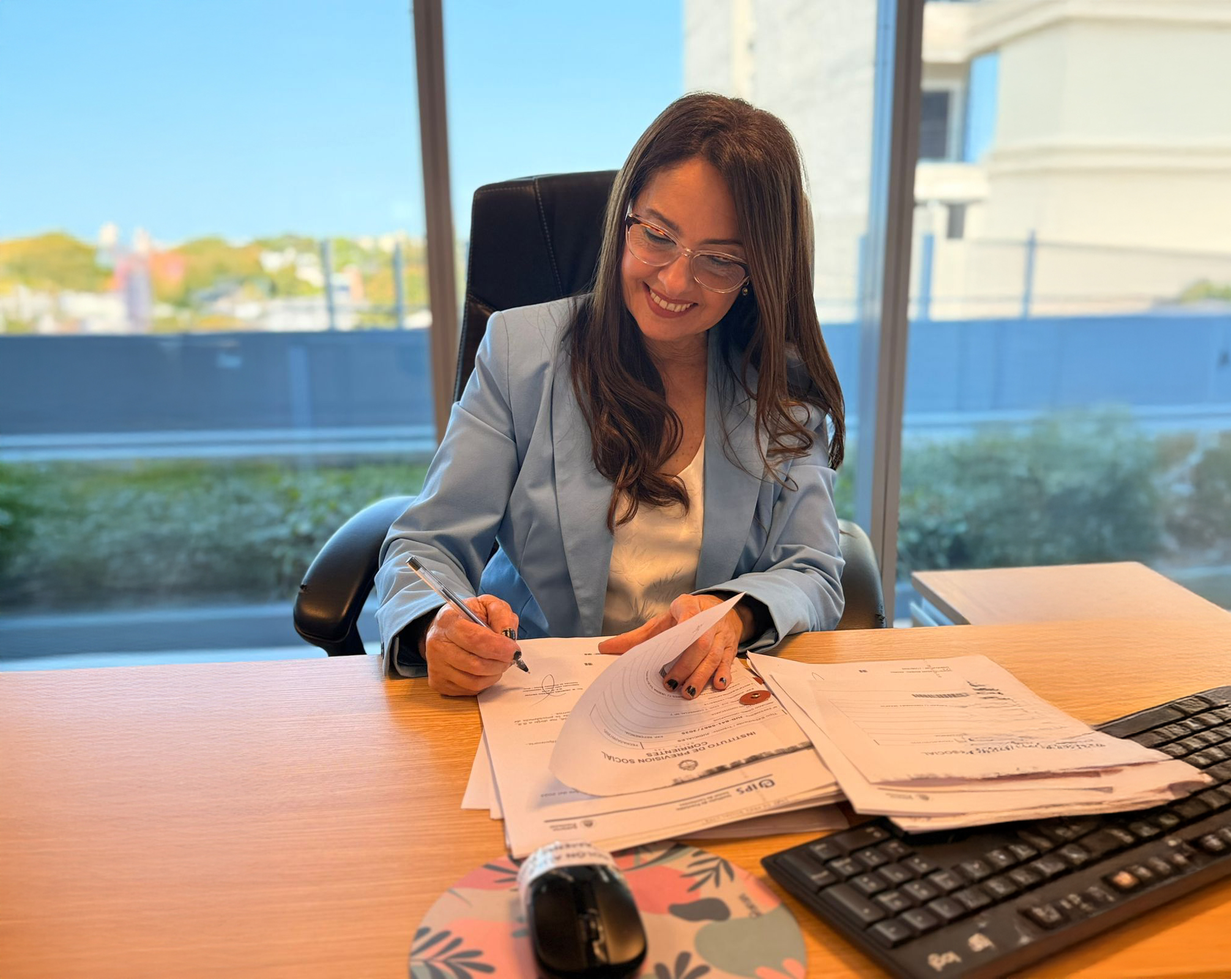
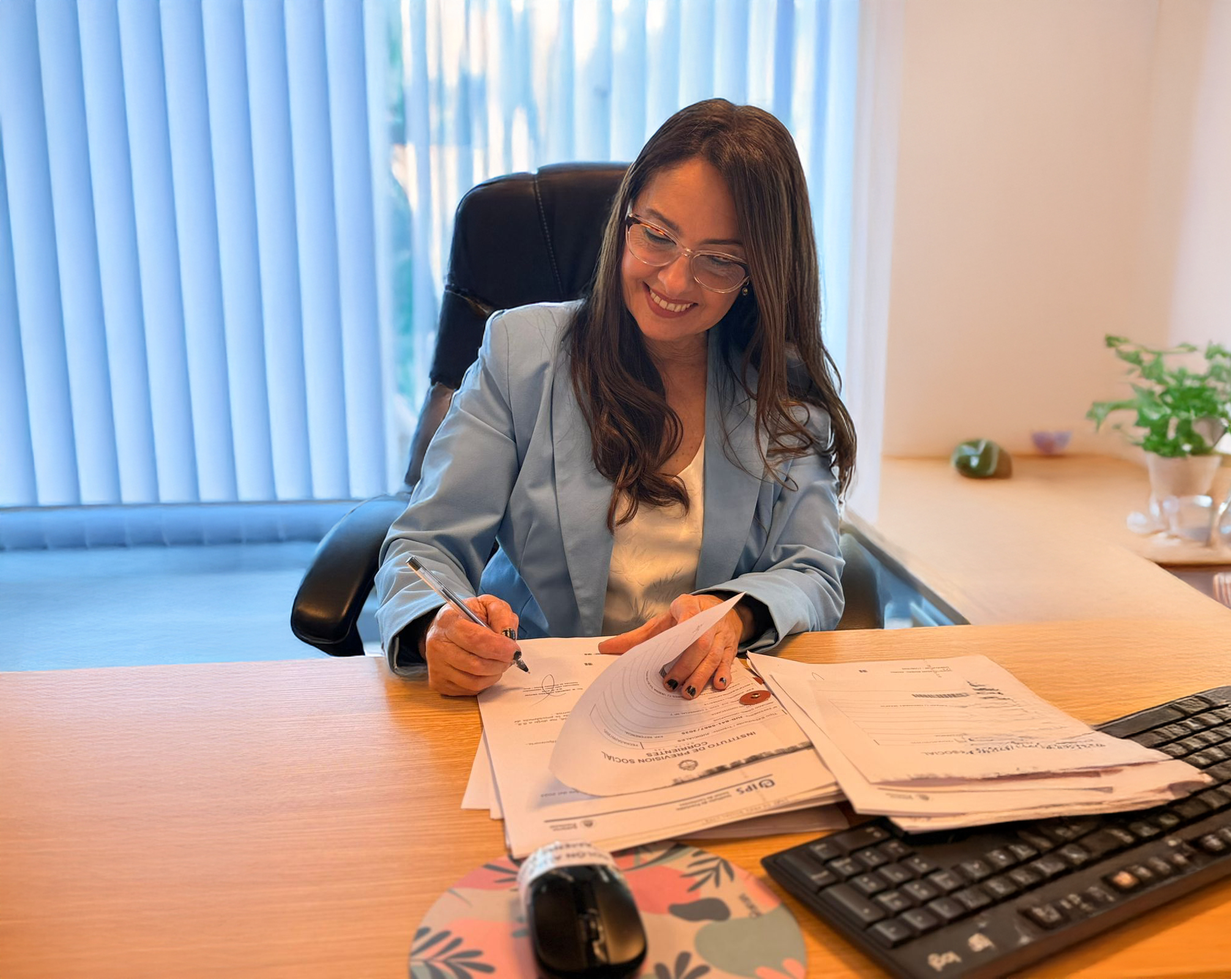
......

diff --git a/src/app/nosotros/page.tsx b/src/app/nosotros/page.tsx
@@ -210,7 +210,7 @@ export default function Nosotros() {
             <div className={styles.teamMember}>
               <div className={styles.memberPhoto}>
                 <Image 
-                  src="/images/WhatsApp Image 2025-09-15 at 02.16.13.jpeg" 
+                  src="/images/marina.jpeg" 
                   alt="Marina Belén Díez"
                   width={150} 
                   height={150} 
